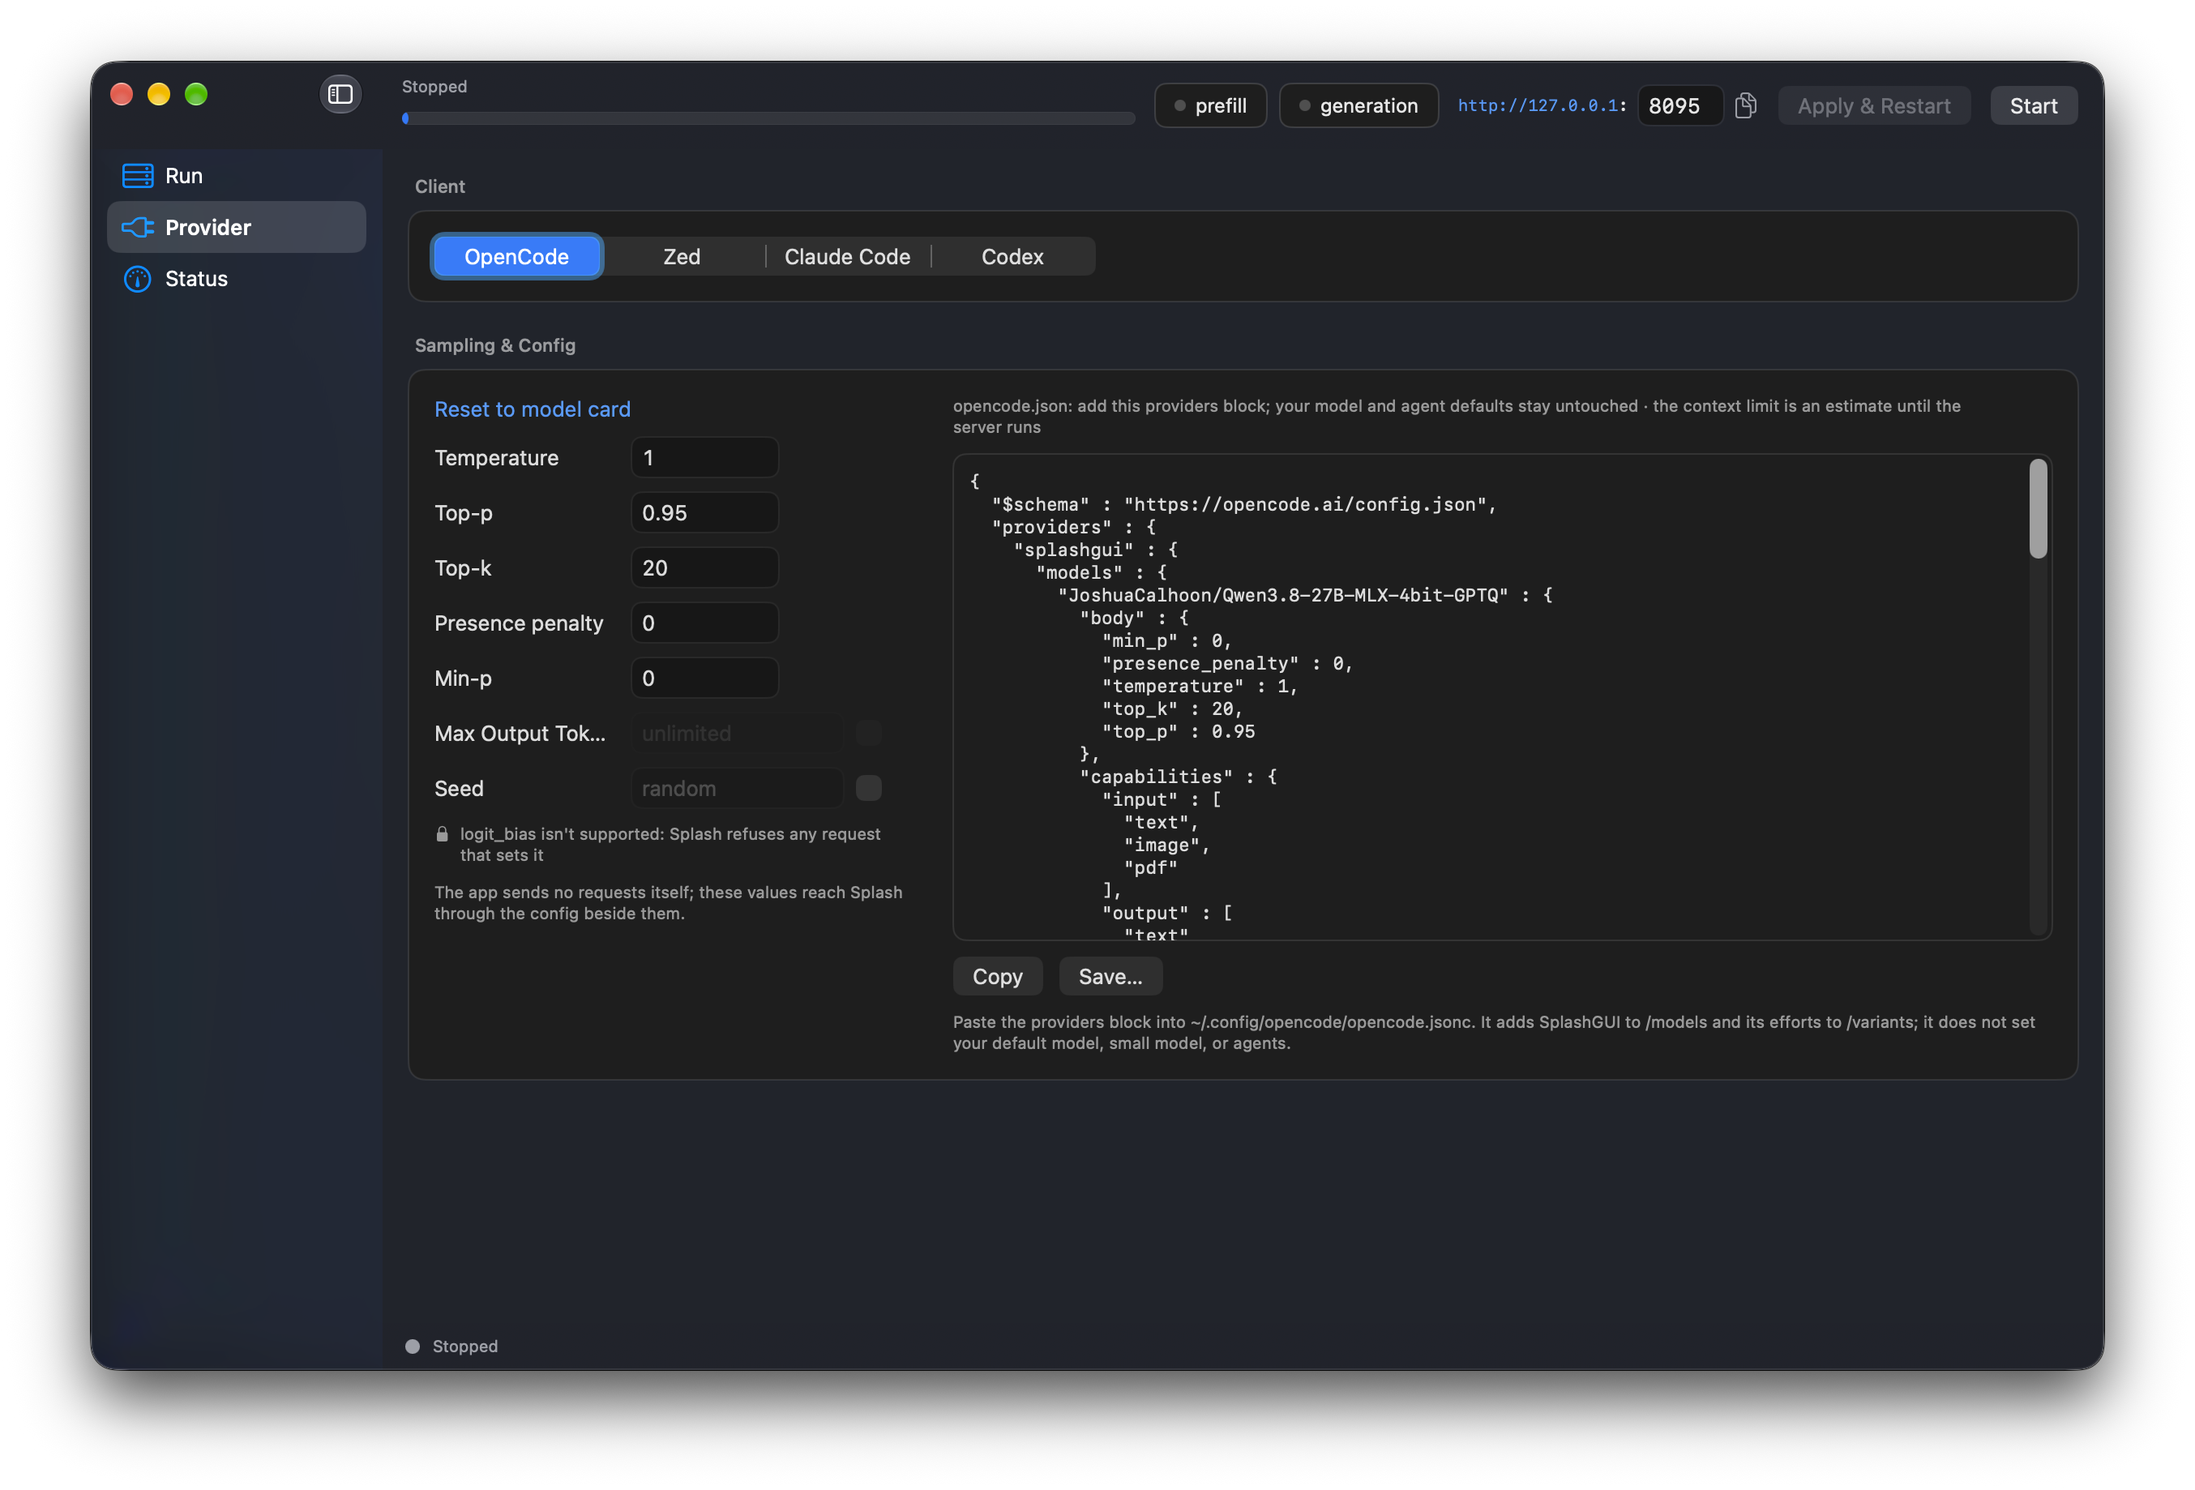
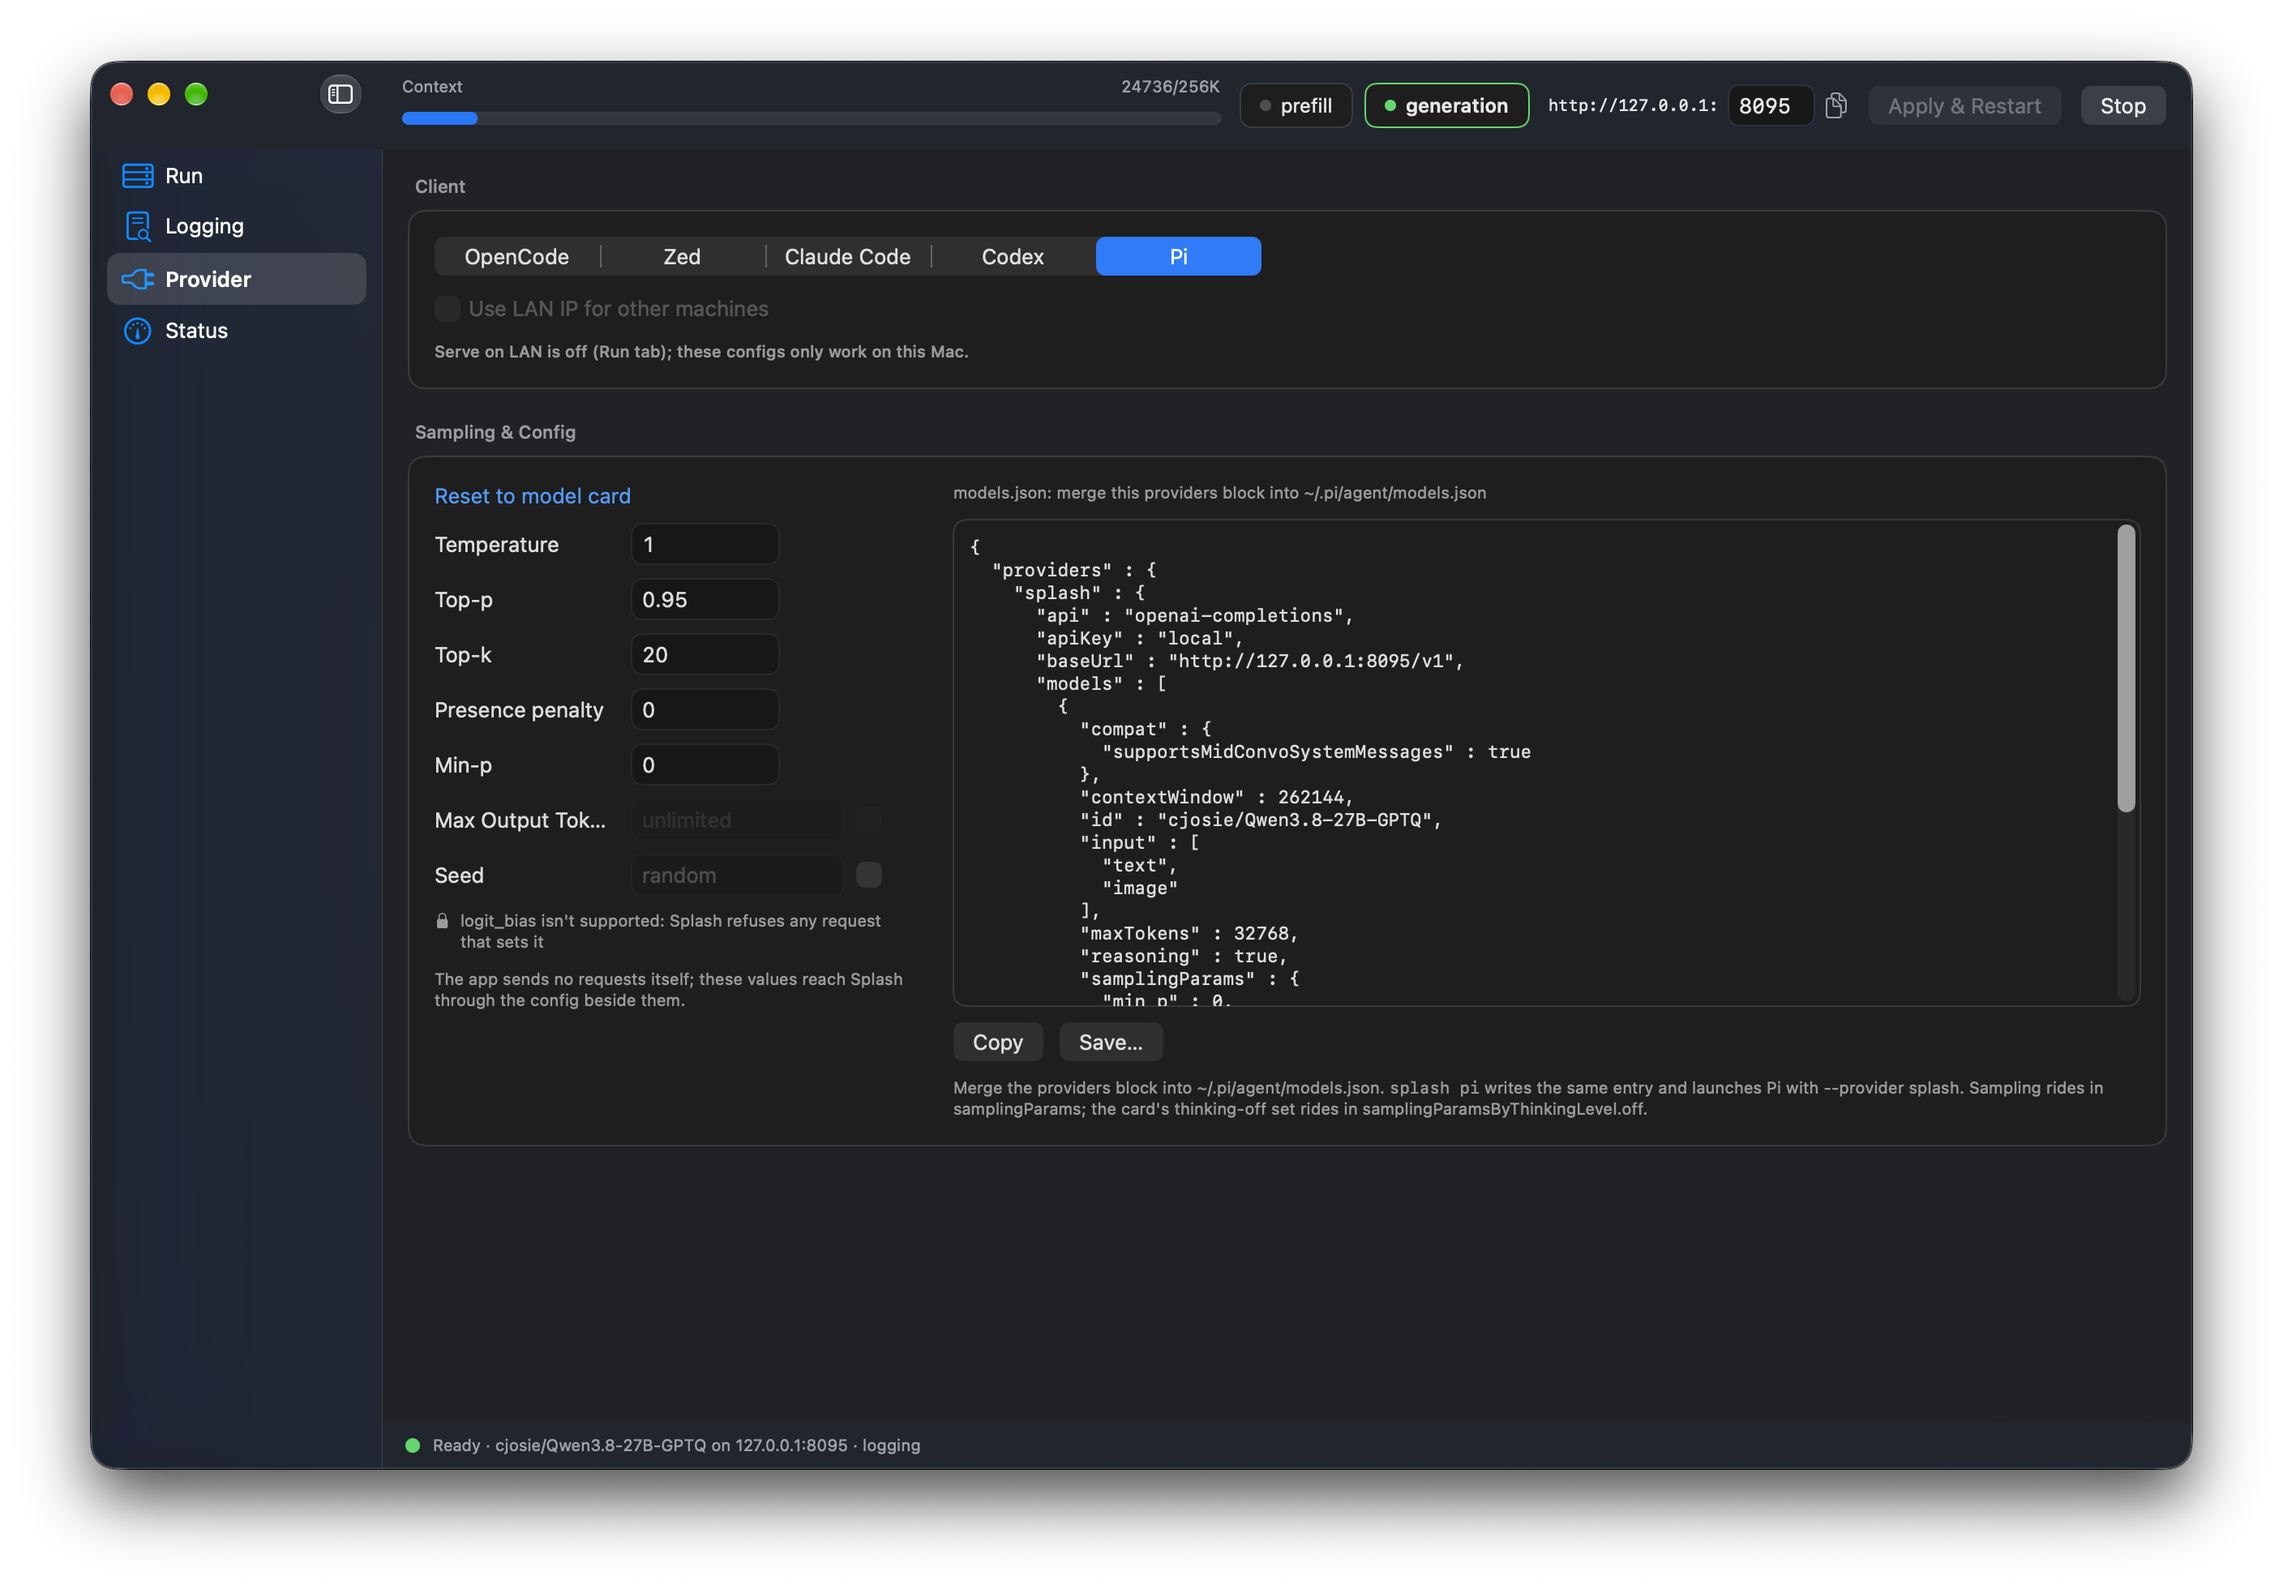
README: Logging tab, Homebrew engine, Provider LAN toggle; refresh screenshots
Adds the Logging tab screenshot and describes session + performance logging,
the Homebrew engine source, and the Provider LAN-IP toggle. Refreshes the Run
and Provider screenshots.

diff --git a/README.md b/README.md
@@ -5,12 +5,17 @@ A native macOS SwiftUI frontend for the [Splash](https://github.com/incoai/splas
 SplashGUI is only a frontend. The engine binary is downloaded from the upstream project at first launch; see [the engine's README](https://github.com/incoai/splash) for how the engine itself works.
 
 ## Features
-The top bar is always present, and shows engine status (while loading) and context usage (once loaded). It has a prefill/decode block that'll flip green for whichever the model is currently doing, the server URL (and configurable port setting), the apply & restart button, and the start/stop button. There's 3 tabs with additional settings and information:
+The top bar is always present, and shows engine status (while loading) and context usage (once loaded). It has a prefill/decode block that'll flip green for whichever the model is currently doing, the server URL (and configurable port setting), the apply & restart button, and the start/stop button. There's 4 tabs with additional settings and information:
 ![SplashGUI run tab, showing main settings](images/Run.png)
-Run tab: Model picker, settings requiring a restart, default reasoning level, engine version settings. Toggling "Auto" will pick context, memory, SSD cache, and KV Cache quantization based on hardware/Splash engine defaults. Optional toggles to disable the splash web chat server and the vision heads (the latter will save a smidge of VRAM), host to LAN, skip the huggingface check, etc.
+Run tab: Model picker, settings requiring a restart, default reasoning level, engine version settings. Now supports finding a Homebrew install of Splash, so it won't re-download the engine if you already installed it that way. 
+
+Toggling "Auto" will pick context, memory, SSD cache, and KV Cache quantization based on hardware/Splash engine defaults. Optional toggles to disable the splash web chat server and the vision heads (the latter will save a smidge of VRAM), host to LAN, skip the huggingface check, etc.
+
+![logging tab, showing log options, exports, and a list of recent log events ](images/Logging.png)
+Logging tab: Toggle logging local sessions, LAN sessions, and choose retention. Separately, you can log the same #s from the Status tab, on 1, 5, or 10 second intervals. Both logging options emit json files, performance logging also has a CSV export option. Logging won't kick in until the server is restarted, as it uses a loopback proxy between the client and engine. 
 
 ![provider tab, showing temperature and opencode/zed/etc json template settings](images/Provider.png)
-Provider tab: Temperature, top-p/k settings, and other on-the-fly adjustable ones. The json template updates with the settings you pick here and on run, for easy copy-pasting into various service configs (I mostly use OpenCode V2). 
+Provider tab: Temperature, top-p/k settings, and other on-the-fly adjustable ones. Toggle LAN IP on/off and it'll flip from filling the localhost or LAN IP, making it easy to paste over to LAN machines without manually correcting the IP. The json template updates with the settings you pick here and on run, for easy copy-pasting into various service configs (I mostly use OpenCode V2 and Pi). 
 
 ![status tab, displaying token per second and other stats, plus a chart graphing the main ones](images/Status.png)
 Status tab: monitoring. Shows time to first token, prefill, decode, draft acceptance, cache hit, etc. Graphs prefill tok/s, decode tok/s, cache hit percentage, and draft accept percentage. 
@@ -23,9 +28,9 @@ Status tab: monitoring. Shows time to first token, prefill, decode, draft accept
 
 ## Install
 
-Download the latest `SplashGUI-<version>.dmg` from [Releases](https://github.com/cjosie/SplashGUI/releases), open it, and drag SplashGUI to `/Applications`. It is signed with a Developer ID certificate and notarized, so Gatekeeper opens it without any right-click workaround.
+Download the latest `SplashGUI-<version>.dmg` from [Releases](https://github.com/cjosie/SplashGUI/releases), open it, and drag SplashGUI to `/Applications`. It is signed and notarized. 
 
-On first launch the app downloads the Splash engine into its application support directory. Model weights are downloaded from Hugging Face when you start a model.
+On first launch the app checks for a Homebrew install, if not present then it downloads the Splash engine into its application support directory. Model weights are downloaded from Hugging Face when you start a model.
 
 ## The model catalogue
 
@@ -64,7 +69,7 @@ Custom entries are unpinned (no revision/hash pre-flight) until saved to the lis
 
 While the server is running it exposes an OpenAI-compatible API at `http://localhost:8095/v1` (port configurable on the Run tab). Any client that speaks that API can point at it. For a quick start without any external tool, the engine also serves a built-in web chat page in the browser ("Built-in web chat page" toggle, on by default).
 
-Turn on "Serve on LAN" (Run tab) to let other machines on your network connect: the server binds every interface and the title bar shows this Mac's LAN address to copy. There is no API key — anyone on the network can use the model, so use it on a trusted network. macOS may prompt to allow incoming connections for the Splash engine the first time.
+Turn on "Serve on LAN" (Run tab) to let other machines on your network connect: the server binds every interface and the title bar shows this Mac's LAN address to copy. There is no API key, anyone on the network can use the model, so use it on a trusted network. macOS may prompt to allow incoming connections for the Splash engine the first time.
 
 ## Building from source
 
